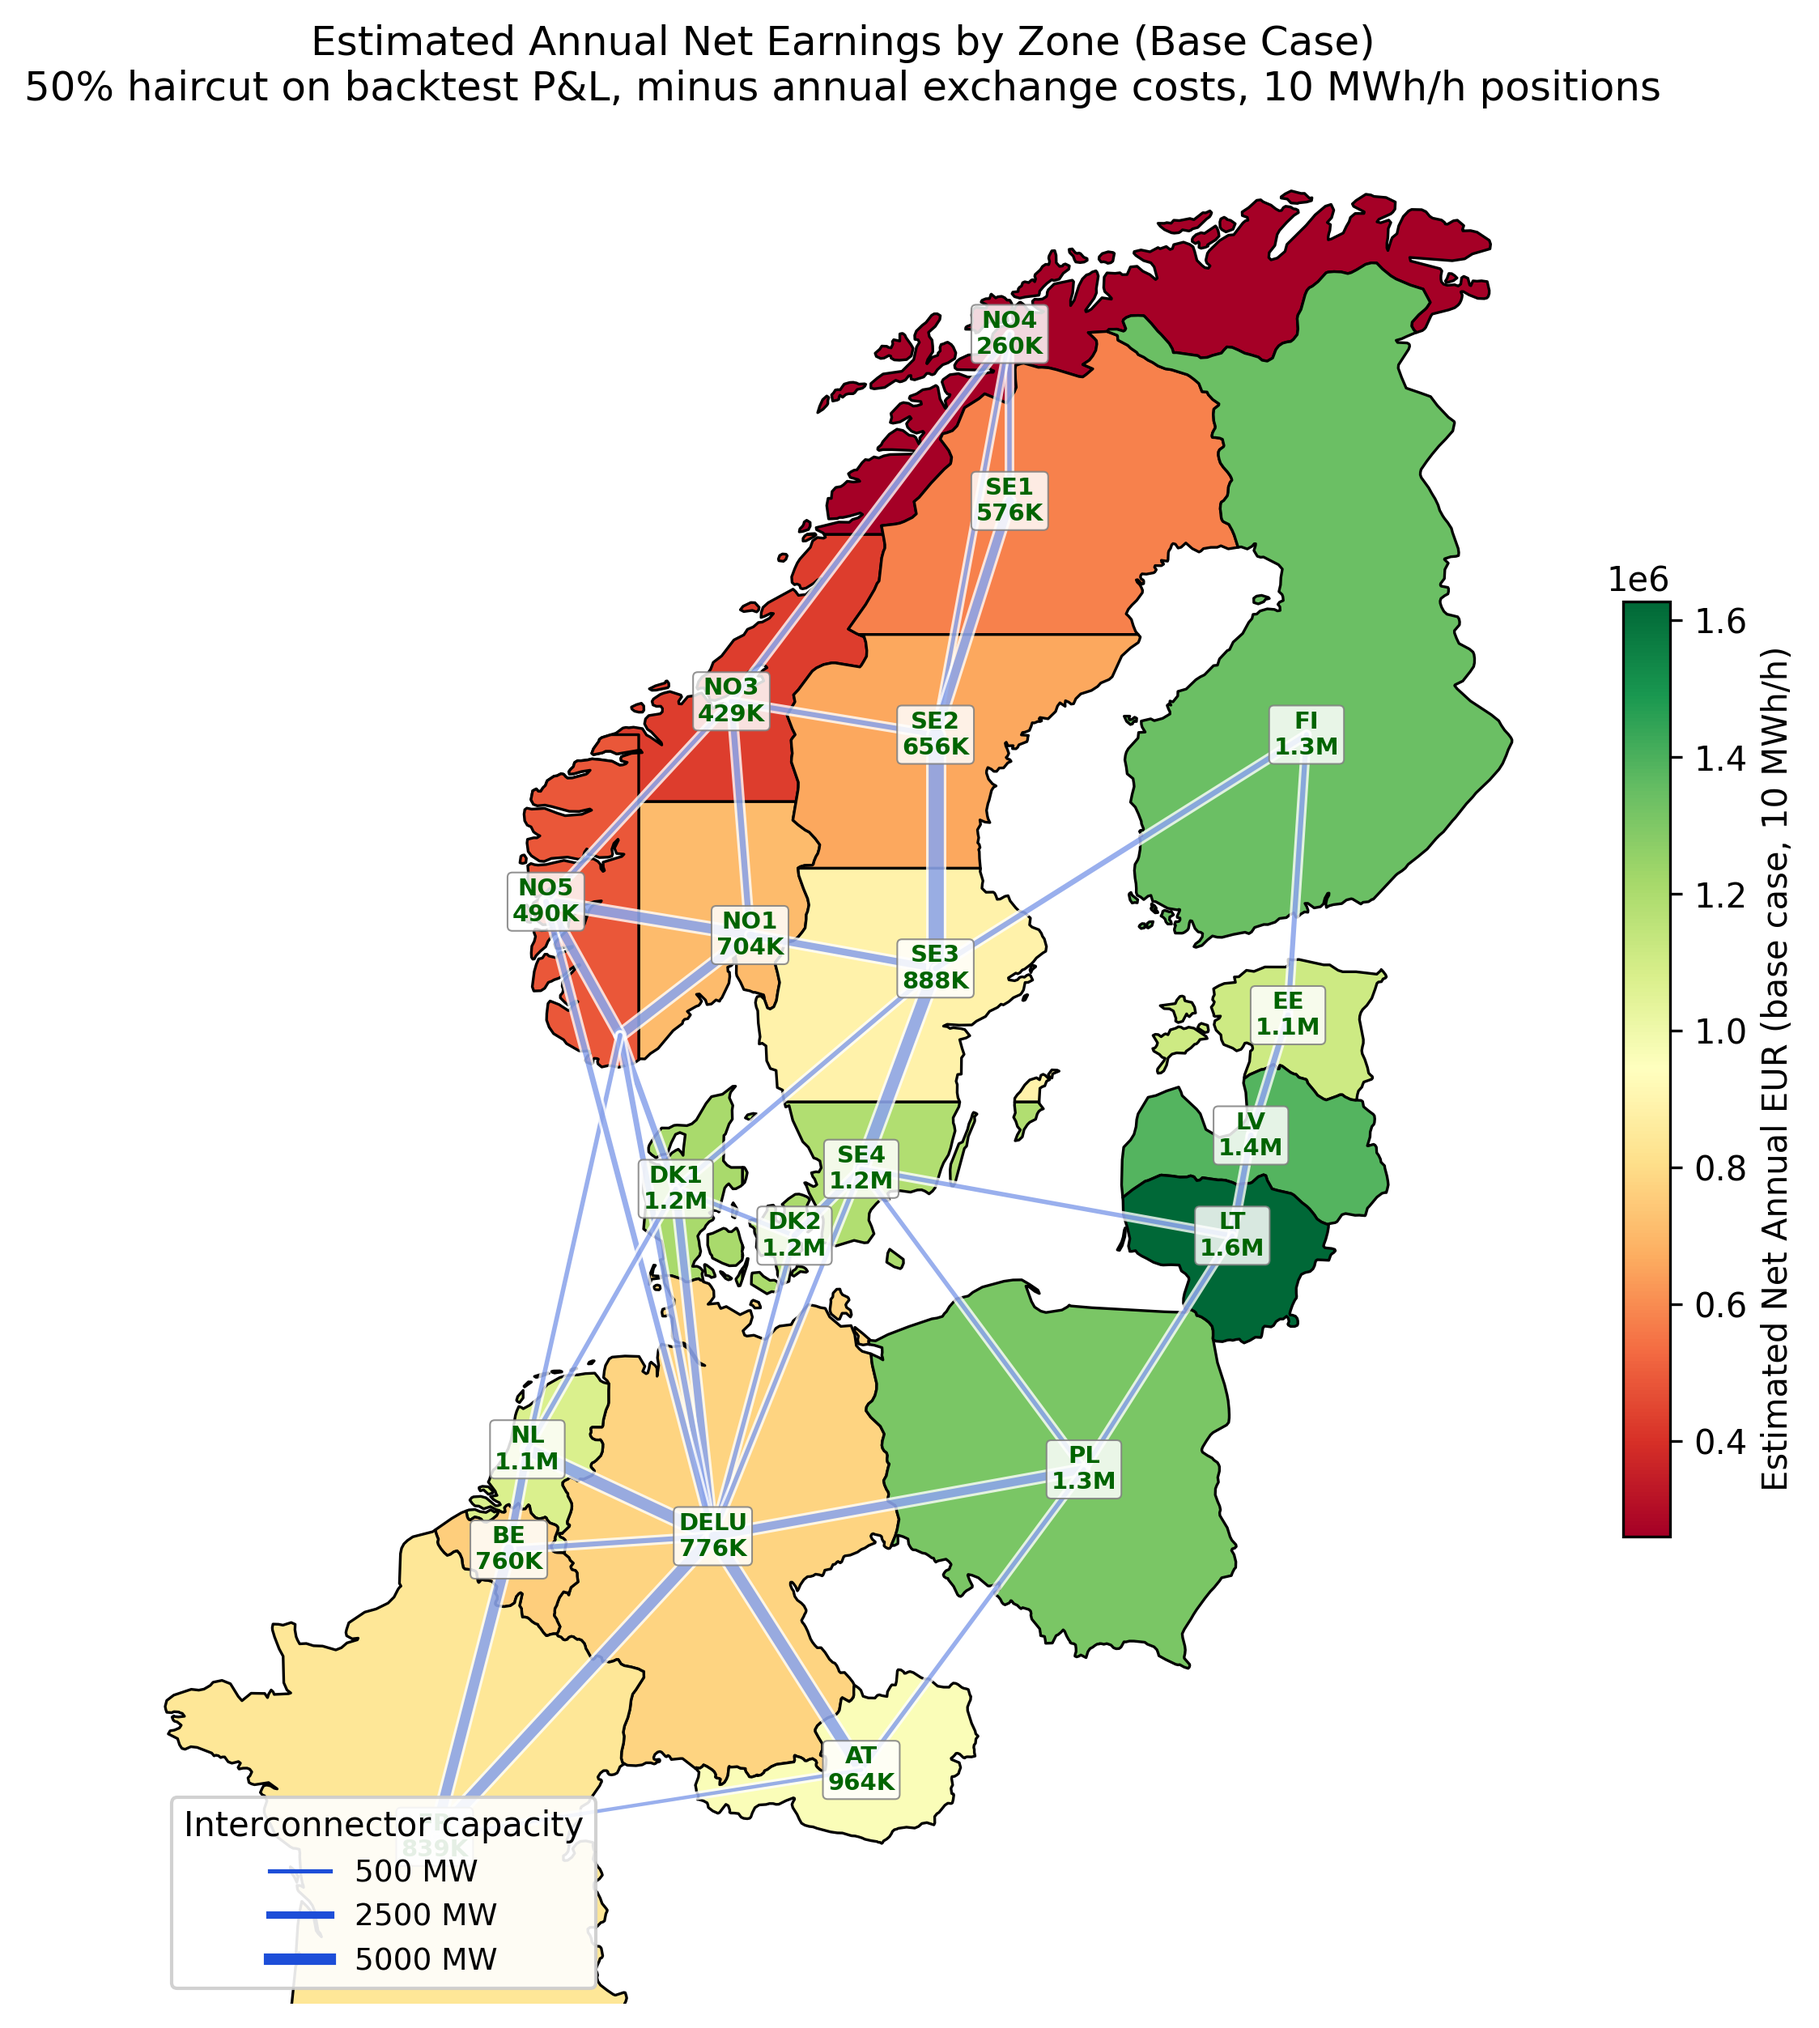
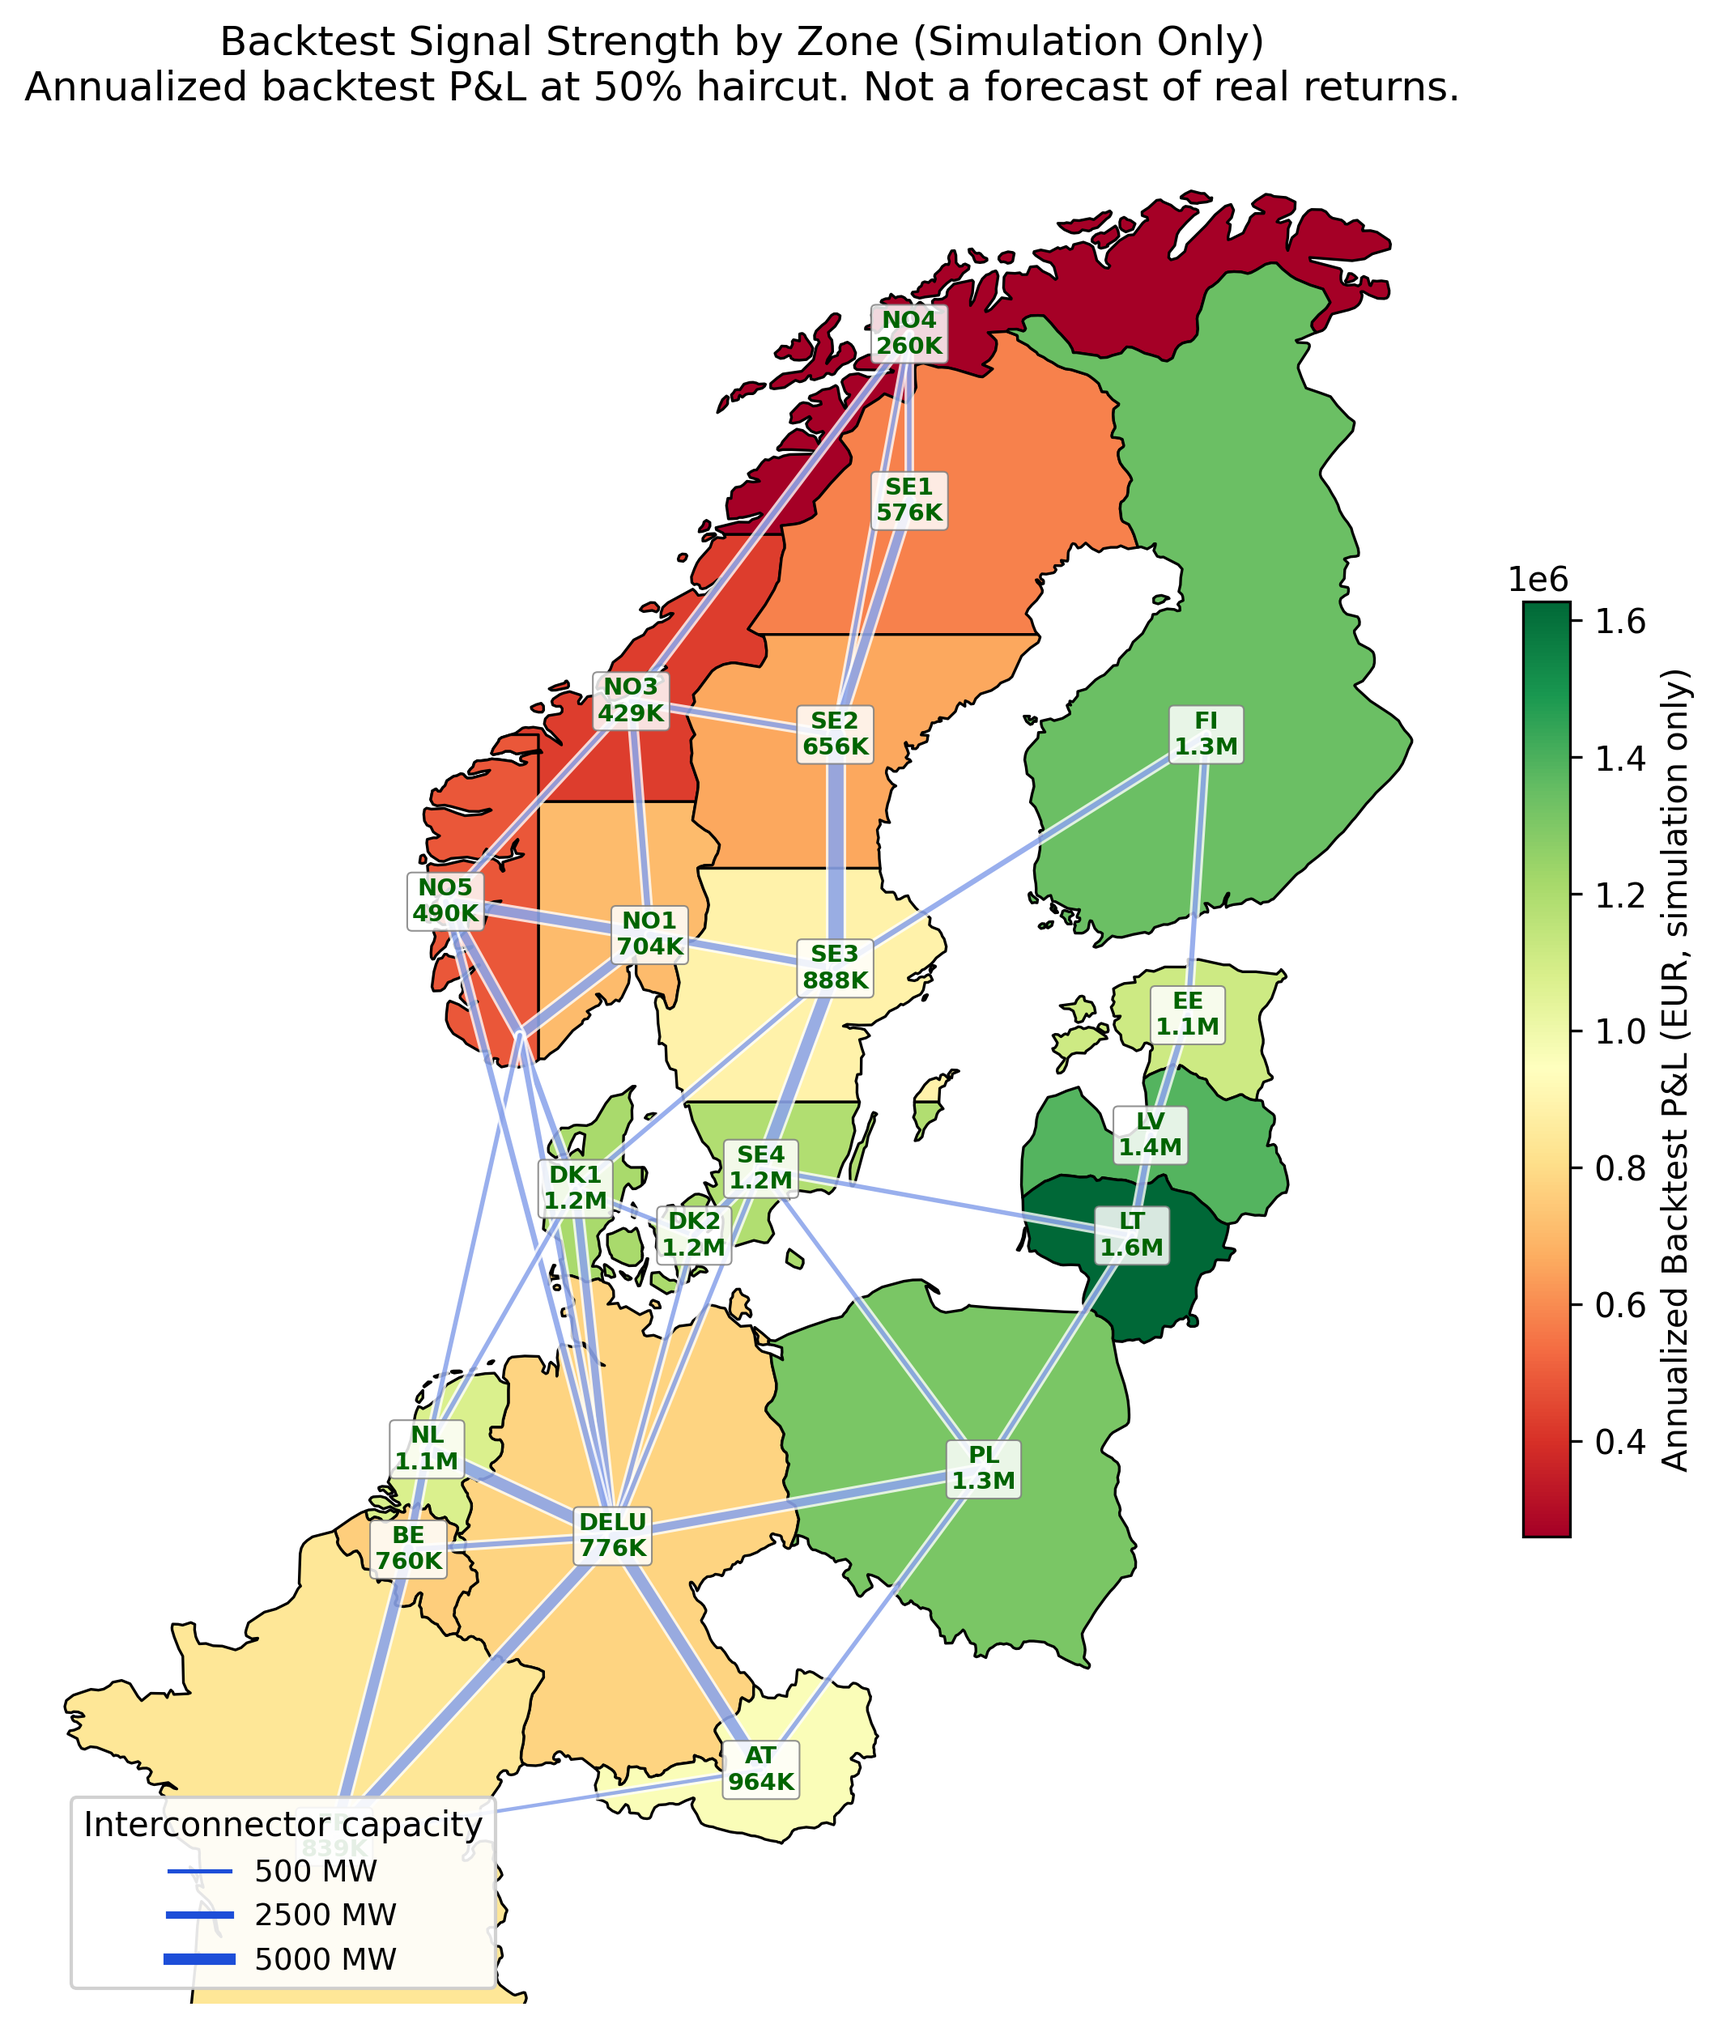
Reframe all results as simulation, add risk metrics
- Remove all profit/earnings claims from README and scripts
- Add Sortino ratio, Calmar ratio, and profit factor to backtest metrics
- Rename earnings map to "Backtest Signal Strength (Simulation Only)"
- Add disclaimers throughout: these are simulated results, not real
  or projected trading performance
- Win rate now documented as meaningless without profit factor context

Changed region(s): [[0.0311, 0.0934, 0.8394, 0.9964], [0.8705, 0.2802, 0.9948, 0.7473], [0.0, 0.0, 0.9016, 0.0623]]

diff --git a/src/da_forecast/backtest/metrics.py b/src/da_forecast/backtest/metrics.py
@@ -3,18 +3,79 @@
 Sharpe ratio uses daily aggregate P&L (not hourly) because consecutive
 hourly returns are correlated -- using hourly with sqrt(8760) annualization
 inflates Sharpe by ~5x.
+
+IMPORTANT: All metrics here describe simulated backtest performance only.
+They do NOT predict future returns. The backtest uses a simplistic reference
+price and assumes perfect execution -- real-world results would differ
+significantly. See docs/ for a full discussion of backtest limitations.
 """
 import numpy as np
 import pandas as pd
 
 
 def sharpe_ratio(results: pd.DataFrame) -> float:
-    """Annualized Sharpe ratio based on daily P&L."""
+    """Annualized Sharpe ratio based on daily P&L.
+
+    Sharpe = mean(daily_pnl) / std(daily_pnl) * sqrt(365).
+    Penalizes all volatility equally (up and down).
+    """
     pnl = results["pnl"]
     daily_pnl = pnl.groupby(pnl.index.date).sum()
     if daily_pnl.std() == 0:
         return float("inf") if daily_pnl.mean() > 0 else 0.0
     return float(daily_pnl.mean() / daily_pnl.std() * np.sqrt(365))
+
+
+def sortino_ratio(results: pd.DataFrame) -> float:
+    """Annualized Sortino ratio based on daily P&L.
+
+    Like Sharpe but only penalizes downside (negative) volatility.
+    More relevant for trading: big wins are good, only big losses matter.
+    """
+    pnl = results["pnl"]
+    daily_pnl = pnl.groupby(pnl.index.date).sum()
+    downside = daily_pnl[daily_pnl < 0]
+    if len(downside) == 0:
+        return float("inf") if daily_pnl.mean() > 0 else 0.0
+    downside_std = downside.std()
+    if downside_std == 0:
+        return float("inf") if daily_pnl.mean() > 0 else 0.0
+    return float(daily_pnl.mean() / downside_std * np.sqrt(365))
+
+
+def calmar_ratio(results: pd.DataFrame) -> float:
+    """Calmar ratio: annualized return / max drawdown.
+
+    Answers: how much worst-case pain per unit of annual return?
+    Calmar 1.0 = your worst drawdown equals one year of returns.
+    """
+    pnl = results["pnl"]
+    daily_pnl = pnl.groupby(pnl.index.date).sum()
+    n_days = len(daily_pnl)
+    if n_days == 0:
+        return 0.0
+    annual_pnl = daily_pnl.sum() * (365.0 / n_days)
+    cumulative = pnl.cumsum()
+    mdd = max_drawdown(cumulative)
+    if mdd == 0:
+        return float("inf") if annual_pnl > 0 else 0.0
+    return float(annual_pnl / mdd)
+
+
+def profit_factor(results: pd.DataFrame) -> float:
+    """Gross winning P&L / gross losing P&L.
+
+    More informative than win rate alone. A strategy with 90% win rate
+    but profit factor < 1.0 still loses money (the 10% losses are huge).
+    Profit factor > 1.0 = net positive. > 2.0 = strong.
+    """
+    pnl = results["pnl"]
+    trades = pnl[pnl != 0]
+    gross_wins = trades[trades > 0].sum()
+    gross_losses = abs(trades[trades < 0].sum())
+    if gross_losses == 0:
+        return float("inf") if gross_wins > 0 else 0.0
+    return float(gross_wins / gross_losses)
 
 
 def max_drawdown(cumulative_pnl: pd.Series) -> float:
@@ -25,7 +86,12 @@ def max_drawdown(cumulative_pnl: pd.Series) -> float:
 
 
 def win_rate(returns: pd.Series) -> float:
-    """Percentage of profitable trades (non-zero returns only)."""
+    """Percentage of profitable trades (non-zero returns only).
+
+    NOTE: Win rate alone is meaningless. A 90% win rate with tiny wins
+    and large losses has negative expected value. Always pair with
+    profit_factor or avg_win/avg_loss ratio.
+    """
     trades = returns[returns != 0]
     if len(trades) == 0:
         return 0.0
@@ -33,7 +99,12 @@ def win_rate(returns: pd.Series) -> float:
 
 
 def backtest_summary(results: pd.DataFrame) -> dict:
-    """Comprehensive backtest summary from results with 'pnl' and 'position' columns."""
+    """Backtest summary from results with 'pnl' and 'position' columns.
+
+    WARNING: These are simulated results, not real trading performance.
+    The backtest uses a simplistic reference price and assumes perfect
+    execution. Real-world performance would be significantly worse.
+    """
     pnl = results["pnl"]
     cumulative = pnl.cumsum()
     trade_returns = pnl[results["position"] != 0]
@@ -45,6 +116,9 @@ def backtest_summary(results: pd.DataFrame) -> dict:
         "daily_pnl_mean": float(daily_pnl.mean()),
         "daily_pnl_std": float(daily_pnl.std()),
         "sharpe_ratio": sharpe_ratio(results),
+        "sortino_ratio": sortino_ratio(results),
+        "calmar_ratio": calmar_ratio(results),
+        "profit_factor": profit_factor(results),
         "max_drawdown": max_drawdown(cumulative),
         "win_rate_pct": win_rate(trade_returns),
         "n_trades": int((results["position"] != 0).sum()),

diff --git a/scripts/run_pipeline.py b/scripts/run_pipeline.py
@@ -430,7 +430,12 @@ def step_revenue_estimation(backtest_results: list[dict]):
       Base case:     50% of backtest P&L (typical live vs backtest ratio)
       Conservative:  25% of backtest P&L
     """
-    section("REVENUE ESTIMATION")
+    section("BACKTEST SCALING (SIMULATION ONLY)")
+    log("  WARNING: This section scales backtest results to different position sizes.")
+    log("  These are NOT revenue projections. Real-world results would differ")
+    log("  significantly due to market entry mechanics, counterparty availability,")
+    log("  and the fact that the backtest reference price is a simplistic proxy.")
+    log()
     log("  Assumptions:")
     log("  A1. Position sizes: 1 MW, 5 MW, 10 MW")
     log("  A2. Trading fee: 0.04 EUR/MWh (Nord Pool fee schedule)")
@@ -585,20 +590,22 @@ def main():
             log(f"  {r['zone']:>8s}  {r['model_mae']:8.2f}  {r.get('model_rmse', 0):8.2f}")
 
     if backtest_results:
-        log(f"\n  Backtest results (with 0.04 EUR/MWh costs, max 12 trades/day):")
-        log(f"  {'Zone':>8s}  {'P&L (EUR)':>10s}  {'Sharpe':>8s}  {'Win%':>6s}  {'Trades':>8s}")
-        log(f"  {'-'*48}")
+        log(f"\n  Backtest simulation (NOT real trading results):")
+        log(f"  {'Zone':>8s}  {'Sim P&L':>10s}  {'Sharpe':>8s}  {'Sortino':>8s}  {'Calmar':>8s}  {'PF':>6s}  {'MaxDD':>10s}")
+        log(f"  {'-'*72}")
         for bt in backtest_results:
             s = bt["summary"]
             log(f"  {bt['zone']:>8s}  {s['total_pnl']:>10.0f}  {s['sharpe_ratio']:>8.2f}  "
-                f"{s['win_rate_pct']:>5.0f}%  {s['n_trades']:>8d}")
+                f"{s.get('sortino_ratio', 0):>8.2f}  {s.get('calmar_ratio', 0):>8.2f}  "
+                f"{s.get('profit_factor', 0):>5.1f}  {s['max_drawdown']:>10.0f}")
 
     log(f"\n  Outputs saved to: {OUTPUT_DIR}/")
     log(f"  Full log: {log_path}")
-    log(f"\n  Note: Sharpe ratios are calculated on daily P&L (annualized sqrt(365)).")
-    log(f"  Real-world strategies typically achieve Sharpe 1-3.")
-    log(f"  Values above 3 suggest the backtest is still optimistic")
-    log(f"  (no market impact, no slippage, perfect execution).")
+    log(f"\n  IMPORTANT: These are SIMULATED results, not real or projected performance.")
+    log(f"  The backtest uses a simplistic reference price (D-1 same hour) that does")
+    log(f"  not represent actual market consensus. Real-world performance would be")
+    log(f"  significantly different. Sharpe ratios above 3 indicate the simulation")
+    log(f"  is unrealistically optimistic (real-world strategies achieve 1-3).")
 
     if backtest_results:
         step_revenue_estimation(backtest_results)

diff --git a/scripts/generate_earnings_map.py b/scripts/generate_earnings_map.py
@@ -260,7 +260,7 @@ def generate_earnings_map(zone_gdf, europe_gdf, earnings_df):
     # Colored zones by net earnings
     merged.plot(ax=ax, column="net_base_case", cmap="RdYlGn",
                 edgecolor="black", linewidth=0.8, legend=True, zorder=3,
-                legend_kwds={"shrink": 0.5, "label": "Estimated Net Annual EUR (base case, 10 MWh/h)"})
+                legend_kwds={"shrink": 0.5, "label": "Annualized Backtest P&L (EUR, simulation only)"})
 
     # Labels with EUR value
     for _, row in earnings_df.iterrows():
@@ -293,8 +293,8 @@ def generate_earnings_map(zone_gdf, europe_gdf, earnings_df):
     ax.set_xlim(xlim)
     ax.set_ylim(ylim)
     ax.set_aspect(1.8)
-    ax.set_title("Estimated Annual Net Earnings by Zone (Base Case)\n"
-                 "50% haircut on backtest P&L, minus annual exchange costs, 10 MWh/h positions",
+    ax.set_title("Backtest Signal Strength by Zone (Simulation Only)\n"
+                 "Annualized backtest P&L at 50% haircut. Not a forecast of real returns.",
                  fontsize=12, pad=10)
     ax.set_xticks([])
     ax.set_yticks([])
@@ -316,7 +316,7 @@ def main():
     # Print summary
     ranked = earnings_df.sort_values("net_base_case", ascending=False)
     print("\n" + "=" * 95)
-    print("  ESTIMATED ANNUAL EARNINGS BY ZONE (10 MWh/h positions)")
+    print("  BACKTEST SIGNAL STRENGTH BY ZONE (10 MWh/h, simulation only)")
     print("=" * 95)
     print("  Assumptions:")
     print("    Position: 10 MWh/h | Haircut: 50% (base) / 75% (conservative)")

diff --git a/scripts/fast_backtest.py b/scripts/fast_backtest.py
@@ -228,9 +228,10 @@ def main():
     ok_results = [r for r in results if r["status"] == "ok"]
 
     print(f"\n{'='*80}")
-    print(f"  SAMPLED BACKTEST RESULTS ({len(ok_results)}/{len(zones_to_run)} zones, {elapsed_total:.0f}s)")
+    print(f"  BACKTEST SIMULATION ({len(ok_results)}/{len(zones_to_run)} zones, {elapsed_total:.0f}s)")
+    print(f"  NOTE: Simulated results only. Not real or projected trading performance.")
     print(f"{'='*80}")
-    print(f"  {'Zone':>6s}  {'P&L (EUR)':>10s}  {'Sharpe':>8s}  {'Win%':>6s}  {'Trades':>8s}  {'Days':>6s}")
+    print(f"  {'Zone':>6s}  {'Sim P&L':>10s}  {'Sharpe':>8s}  {'Win%':>6s}  {'Trades':>8s}  {'Days':>6s}")
     print(f"  {'-'*52}")
 
     for r in sorted(ok_results, key=lambda x: x["total_pnl"], reverse=True):
@@ -240,8 +241,9 @@ def main():
     if ok_results:
         total_pnl = sum(r["total_pnl"] for r in ok_results)
         print(f"\n  {'TOTAL':>6s}  {total_pnl:>10,.0f}")
-        print(f"\n  Note: P&L is from sampled days only ({args.samples} per zone).")
-        print(f"  Annualized estimates require scaling by (365 / n_test_days).")
+        print(f"\n  Simulated P&L from sampled days only ({args.samples} per zone).")
+        print(f"  Uses D-1 same-hour as reference price (not actual market consensus).")
+        print(f"  Real-world results would differ significantly.")
         print(f"  Results cached in {CACHE_DIR}/ -- re-run to fill more days.")
 
     # Save summary JSON for earnings map

diff --git a/README.md b/README.md
@@ -78,29 +78,22 @@ uv run pytest tests/ -v
 jupyter notebook notebooks/
 ```
 
-## Results (Jan 2024 -- Mar 2026, 21 zones)
+## Backtest simulation (Jan 2024 -- Mar 2026, 21 zones)
 
-### Backtest P&L (sampled days, 1 MWh positions, after transaction costs)
+The pipeline includes a walk-forward backtest that simulates a threshold-based trading strategy using the model's predictions. **These are simulation results, not real or projected trading performance.** The backtest uses a simplistic reference price and assumes perfect execution at clearing prices -- conditions that do not hold in practice.
 
-| Zone  | P&L (EUR) | Sharpe | Win% | Days tested |
-|-------|---:|:---:|:---:|:---:|
-| LV    | 59,961 | 19.30 | 82% | 78 |
-| FI    | 56,474 | 24.64 | 94% | 78 |
-| PL    | 55,471 | 19.24 | 92% | 76 |
-| DK_1  | 53,172 | 23.44 | 88% | 78 |
-| DK_2  | 53,610 | 25.02 | 88% | 78 |
-| SE_4  | 51,327 | 20.49 | 89% | 76 |
-| NL    | 44,919 | 22.40 | 93% | 76 |
-| DE_LU | 34,686 | 28.29 | 93% | 78 |
+Key limitations (see `scripts/fast_backtest.py` for implementation):
+- Reference price is previous-day same-hour, not the actual market consensus
+- No modelling of market entry mechanics or counterparty availability
+- No imbalance costs, collateral costs, or execution slippage
+- Sharpe ratios are unrealistically high (~15-25 vs real-world 1-3)
+- Win rate alone is misleading -- always check profit factor and drawdown
 
-Sharpe ratios are unrealistically high (real-world strategies achieve 1-3). The backtest assumes perfect execution and no imbalance costs. We apply a 50% haircut for realistic revenue estimates.
-
-Full results for all 20 zones with earnings projections are in the pipeline output.
+Risk metrics per zone (Sharpe, Sortino, Calmar, profit factor, max drawdown) are available in the pipeline output.
 
 ### Zone analysis
 
 ![Zone attractiveness](output/eu_zone_heatmap.png)
-![Estimated earnings](output/eu_earnings_map.png)
 
 ## Pipeline features
 
